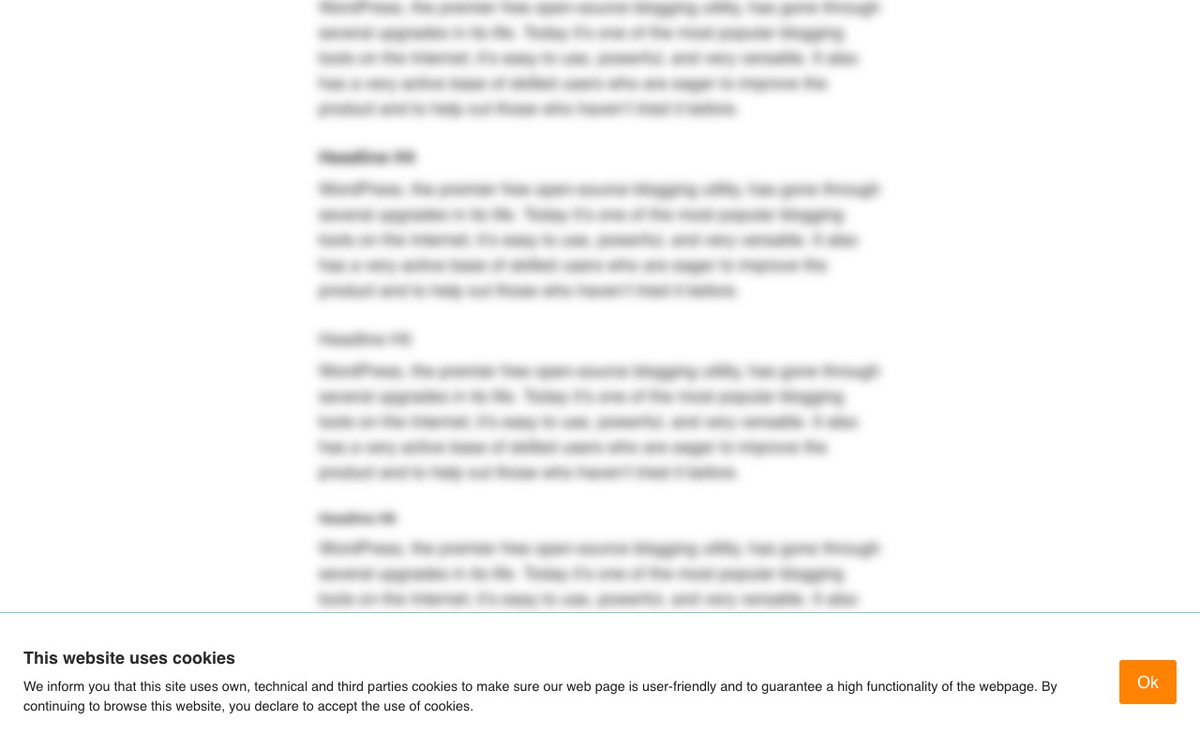
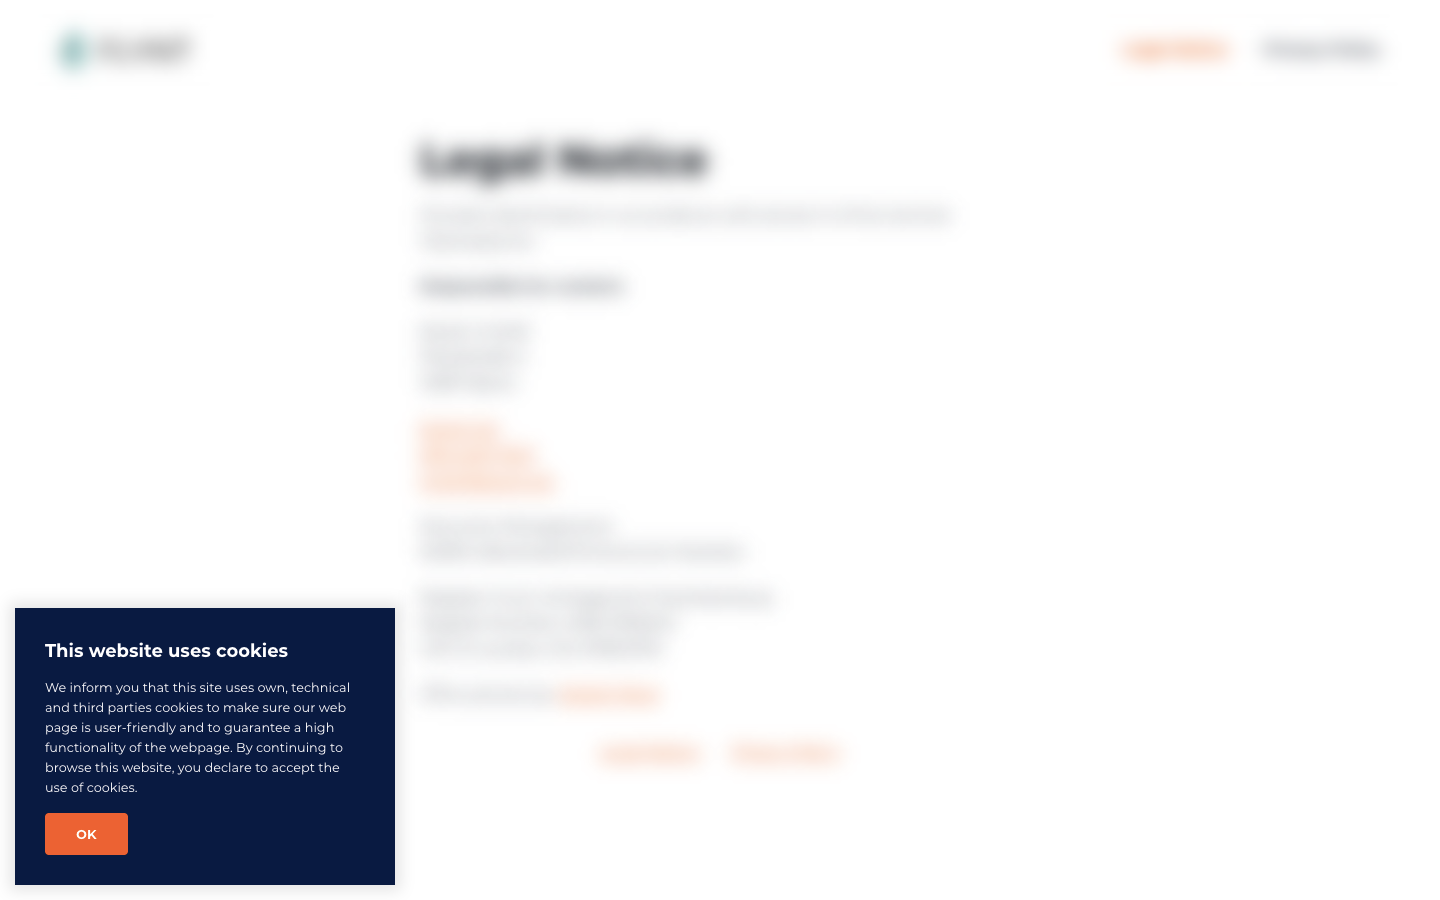
feat(BlockCookieNotice): implemented new layout and theme options

diff --git a/Components/BlockCookieNotice/_style.scss b/Components/BlockCookieNotice/_style.scss
@@ -1,7 +1,6 @@
 [is='flynt-block-cookie-notice'] {
-  background-color: $color-background;
-  border-top: 1px solid $color-brand;
   bottom: 0;
+  box-shadow: 0 0 14px 5px rgba(0, 0, 0, 0.1);
   display: none;
   left: 0;
   position: fixed;
@@ -9,39 +8,46 @@
   z-index: 999;
 
   .container {
-    @include center;
-
-    padding-bottom: $container-padding-desktop;
-    padding-top: $container-padding-desktop;
-
-    @media (min-width: $breakpoint-tablet) {
-      align-items: center;
-      display: flex;
-      justify-content: space-between;
-    }
+    padding-bottom: $container-padding-mobile;
+    padding-top: $container-padding-mobile;
   }
 
   .content {
     @include reset-content-margins;
 
     font-size: 0.8rem;
-    padding-bottom: $container-padding-desktop;
-
-    @media (min-width: $breakpoint-tablet) {
-      padding-bottom: 0;
-    }
-  }
-
-  .button--close {
-    margin-left: 0;
-
-    @media (min-width: $breakpoint-tablet) {
-      margin-bottom: 0;
-      margin-left: 30px;
-    }
+    padding-bottom: $container-padding-mobile;
   }
 
   &.cookieNotice--isVisible {
     display: block;
+  }
+
+  &.layoutBottom {
+    @media (min-width: $breakpoint-tablet) {
+      .container {
+        align-items: center;
+        display: flex;
+        justify-content: space-between;
+      }
+
+      .content {
+        padding-bottom: 0;
+        padding-right: 30px;
+      }
+    }
+  }
+
+  &.layoutFloating {
+    @media (min-width: $breakpoint-mobile-horizontal) {
+      bottom: $container-padding-mobile;
+      left: $container-padding-mobile;
+      max-width: 380px;
+      width: calc(100% - (#{$container-padding-mobile} * 2));
+
+      .container {
+        padding: 30px;
+      }
+    }
   }
 }

diff --git a/assets/styles/_base.scss b/assets/styles/_base.scss
@@ -33,6 +33,10 @@ body {
   overflow-x: hidden;
 }
 
+.themeDefault {
+  background-color: $color-background;
+}
+
 .themeDark {
   background-color: $color-background-dark;
 

diff --git a/Components/BlockCookieNotice/functions.php b/Components/BlockCookieNotice/functions.php
@@ -3,6 +3,43 @@ namespace Flynt\Components\BlockCookieNotice;
 
 use Flynt\Utils\Options;
 
+Options::addGlobal('BlockCookieNotice', [
+    [
+        'label' => 'Layout',
+        'name' => 'layout',
+        'type' => 'select',
+        'allow_null' => 0,
+        'multiple' => 0,
+        'ui' => 0,
+        'ajax' => 0,
+        'wrapper' => [
+            'width' => 50
+        ],
+        'choices' => [
+            'layoutBottom' => 'Bottom',
+            'layoutFloating' => 'Floating'
+        ]
+    ],
+    [
+        'label' => 'Theme',
+        'name' => 'theme',
+        'type' => 'select',
+        'allow_null' => 0,
+        'multiple' => 0,
+        'ui' => 0,
+        'ajax' => 0,
+        'wrapper' => [
+            'width' => 50
+        ],
+        'choices' => [
+            'themeDefault' => 'Default',
+            'themeLight' => 'Light',
+            'themeDark' => 'Dark',
+            'themeHero' => 'Hero'
+        ]
+    ],
+]);
+
 Options::addTranslatable('BlockCookieNotice', [
     [
         'label' => 'Content',
